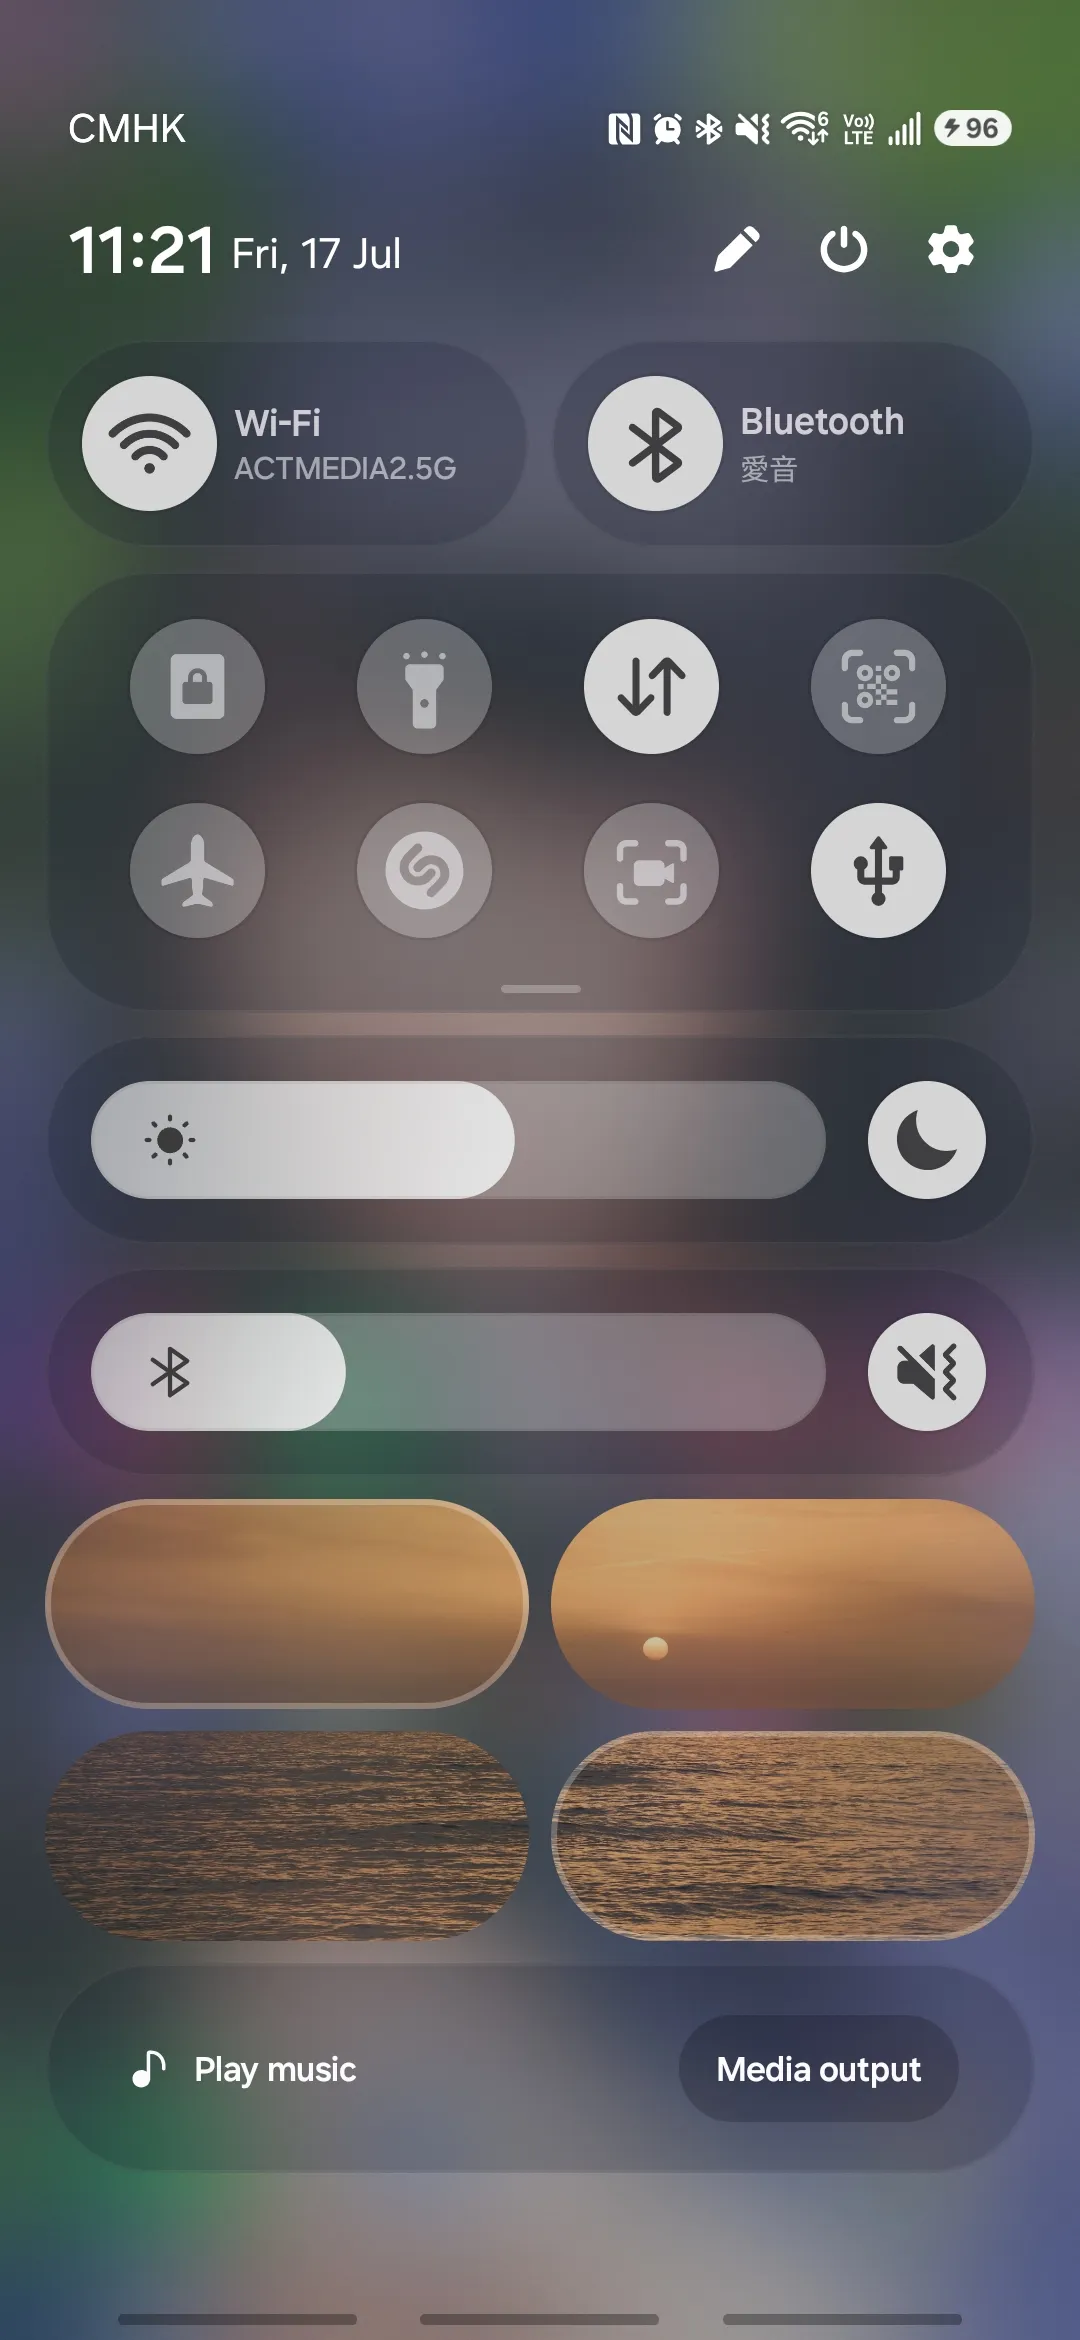
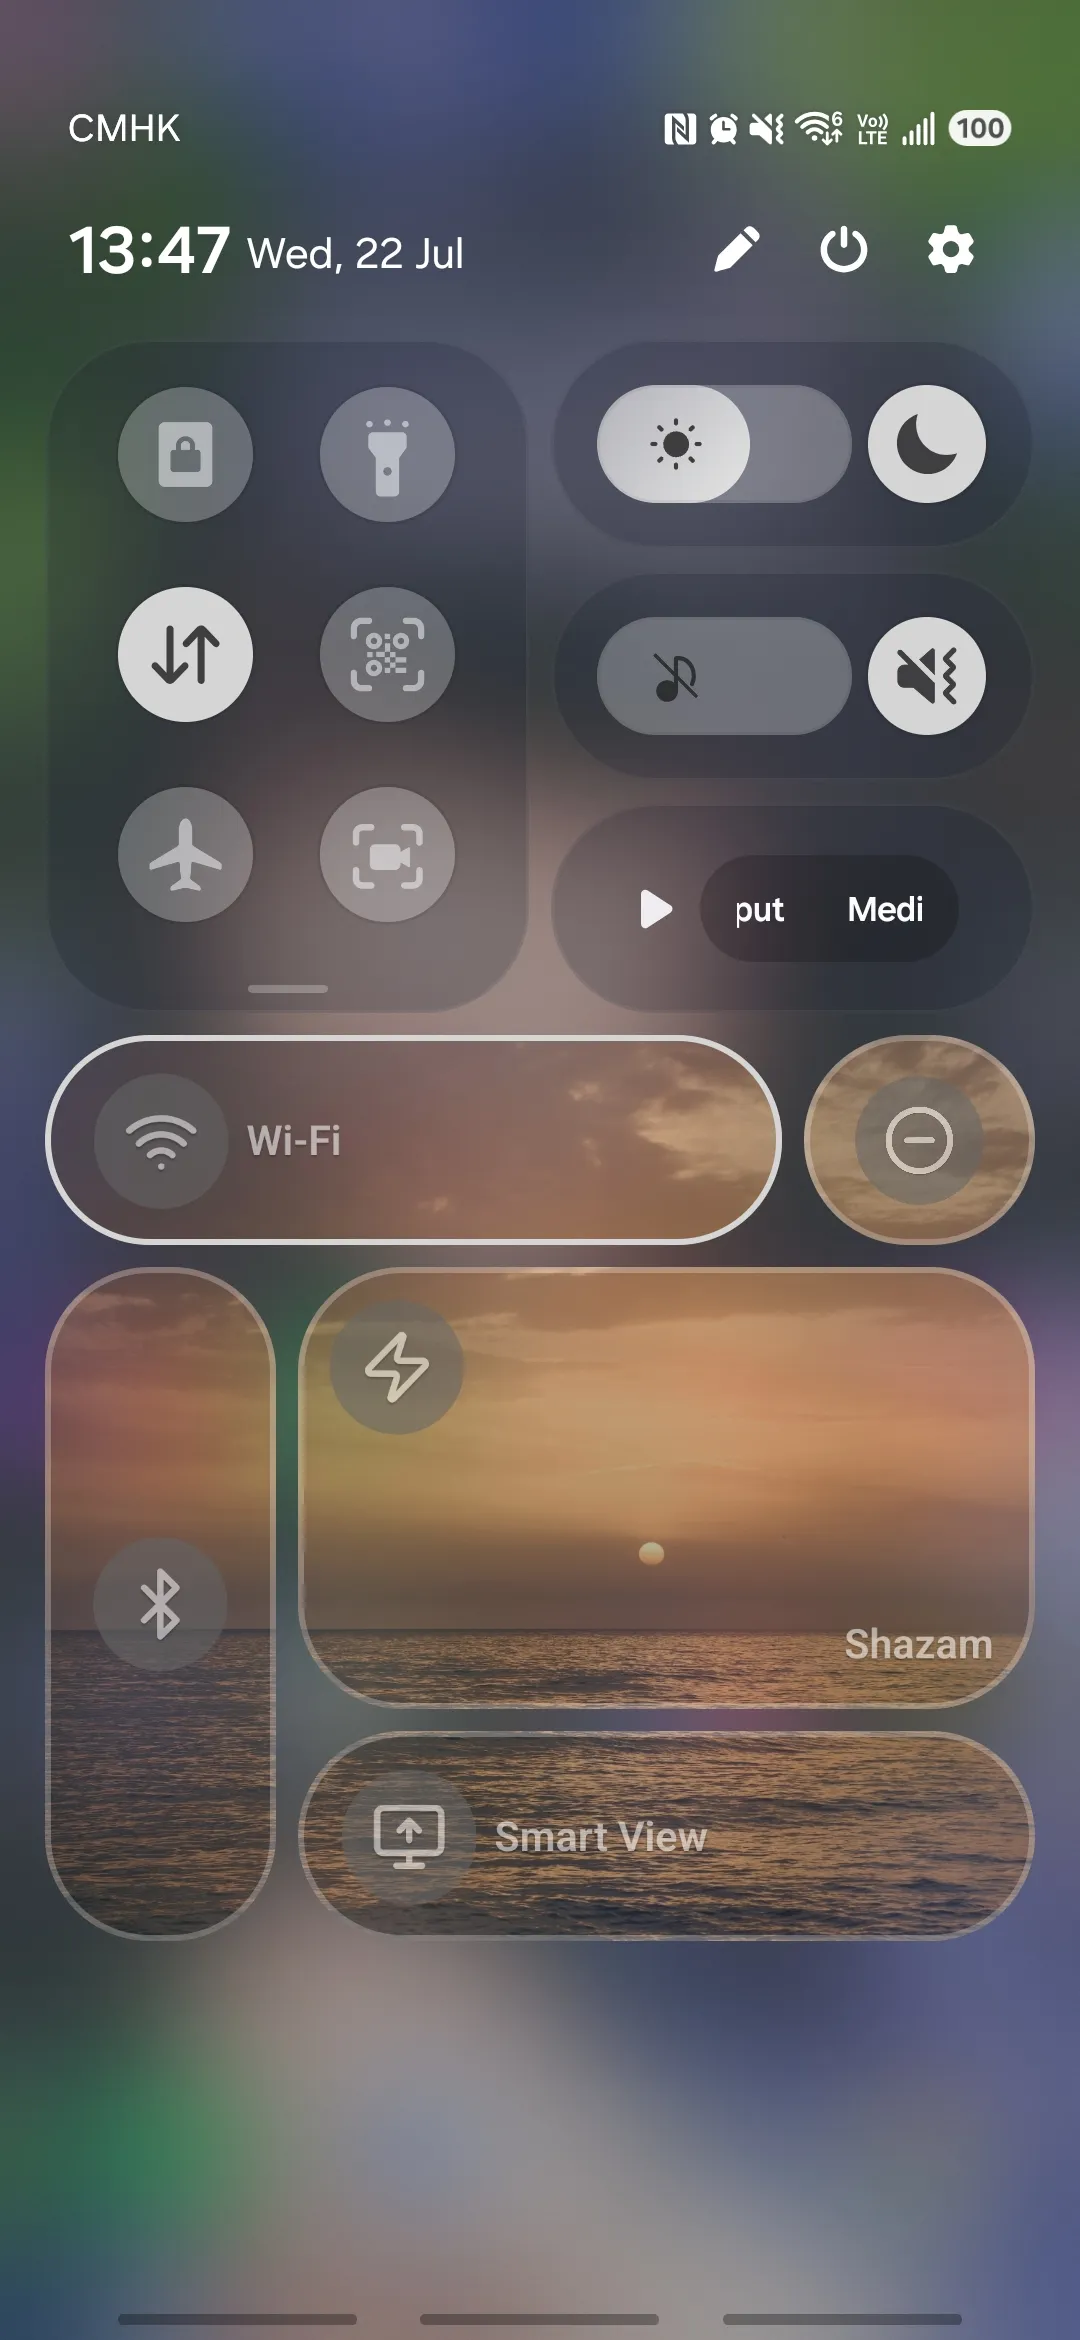
Update: replace advanced carousel slides

diff --git a/__tests__/mode-option-card.test.tsx b/__tests__/mode-option-card.test.tsx
@@ -7,13 +7,12 @@ jest.mock("@/data/images", () => ({
     modeAdvanced1: 1,
     modeAdvanced2: 2,
     modeAdvanced3: 3,
-    modeAdvanced4: 4,
     modeDefault: 5,
   },
 }));
 
 describe("ModeOptionCard", () => {
-  it("shows all four advanced mode example slides", () => {
+  it("shows all three advanced mode example slides", () => {
     const { UNSAFE_getByType } = render(
       <ModeOptionCard
         isSelected
@@ -23,6 +22,6 @@ describe("ModeOptionCard", () => {
       />,
     );
 
-    expect(UNSAFE_getByType(FlatList).props.data).toEqual([1, 2, 3, 4]);
+    expect(UNSAFE_getByType(FlatList).props.data).toEqual([1, 2, 3]);
   });
 });

diff --git a/__tests__/locales.test.ts b/__tests__/locales.test.ts
@@ -5,10 +5,10 @@ describe("customize locale strings", () => {
     const english = enLocale.translation.customize;
     const chinese = zhLocale.translation.customize;
     expect(english.imagePlacementBoundaryHelp).toBe(
-      "The full placement area is the region the image must cover. Zoom in if you need more room to move the image within it.",
+      "If you can’t move the image up or down enough, the area you want to display may not have enough space around it. Try zooming in, then try again.",
     );
     expect(chinese.imagePlacementBoundaryHelp).toBe(
-      "完整放置範圍是圖片必須覆蓋的區域。如需在範圍內有更多移動空間，請放大圖片。",
+      "如果圖片無法充分上下移動，可能是你想顯示的區域周圍沒有足夠空間。請嘗試放大圖片後再試一次。",
     );
     for (const locale of [english, chinese]) {
       expect(locale.imagePlacementHelpButton).toBeTruthy();

diff --git a/src/app/_layout.tsx b/src/app/_layout.tsx
@@ -1,4 +1,5 @@
 import { AppGradientBackground } from "@/features/quick-panel/shared/AppGradientBackground";
+import { FloatingLanguageSwitchButton } from "@/features/quick-panel/shared/LanguageSwitchButton";
 import { BottomSheetModalProvider } from "@gorhom/bottom-sheet";
 import { Stack } from "expo-router";
 import * as SplashScreen from "expo-splash-screen";
@@ -28,7 +29,7 @@ export default function RootLayout() {
               }}
             />
           </View>
-          {/* {__DEV__ ? <FloatingLanguageSwitchButton /> : null} */}
+          {__DEV__ ? <FloatingLanguageSwitchButton /> : null}
         </BottomSheetModalProvider>
       </SafeAreaProvider>
     </GestureHandlerRootView>

diff --git a/i18next/locales/en.ts b/i18next/locales/en.ts
@@ -68,7 +68,7 @@ const en = {
       imagePlacementHelpBody:
         "QuickStar applies a square image to every panel. Wide panels display only the center part of that square, so the hidden area must remain covered too. Zoom in to create more space for moving the image.",
       imagePlacementBoundaryHelp:
-        "The full placement area is the region the image must cover. Zoom in if you need more room to move the image within it.",
+        "If you can’t move the image up or down enough, the area you want to display may not have enough space around it. Try zooming in, then try again.",
       optimizingImage: "Optimizing image...",
       pickerTitle: "Choose background image",
       pickerSubtitle: "PNG, JPG, and WEBP are supported.",

diff --git a/i18next/locales/zh.ts b/i18next/locales/zh.ts
@@ -63,7 +63,7 @@ const zh = {
       imagePlacementHelpBody:
         "QuickStar 會為每個版面套用正方形圖片。較寬的版面只會顯示正方形中央的部分，因此隱藏區域也必須保持被圖片覆蓋。放大圖片即可騰出更多移動空間。",
       imagePlacementBoundaryHelp:
-        "完整放置範圍是圖片必須覆蓋的區域。如需在範圍內有更多移動空間，請放大圖片。",
+        "如果圖片無法充分上下移動，可能是你想顯示的區域周圍沒有足夠空間。請嘗試放大圖片後再試一次。",
       pickerTitle: "選擇背景圖片",
       pickerSubtitle: "支援 PNG、JPG 和 WEBP。",
       layoutPreview: "目前版面預覽",

diff --git a/src/data/images.ts b/src/data/images.ts
@@ -15,7 +15,6 @@ export const images = {
   modeAdvanced1: require("@/assets/mode/advanced_1.webp"),
   modeAdvanced2: require("@/assets/mode/advanced_2.webp"),
   modeAdvanced3: require("@/assets/mode/advanced_3.webp"),
-  modeAdvanced4: require("@/assets/mode/advanced_4.webp"),
   modeDefault: require("@/assets/mode/default.webp"),
 
   tutorialCorrect: require("@/assets/tutorial/correct.webp"),

diff --git a/src/features/quick-panel/select-mode/ModeOptionCard.tsx b/src/features/quick-panel/select-mode/ModeOptionCard.tsx
@@ -17,7 +17,6 @@ const advancedImages = [
   images.modeAdvanced1,
   images.modeAdvanced2,
   images.modeAdvanced3,
-  images.modeAdvanced4,
 ] as const;
 
 interface ModeOptionCardProps {